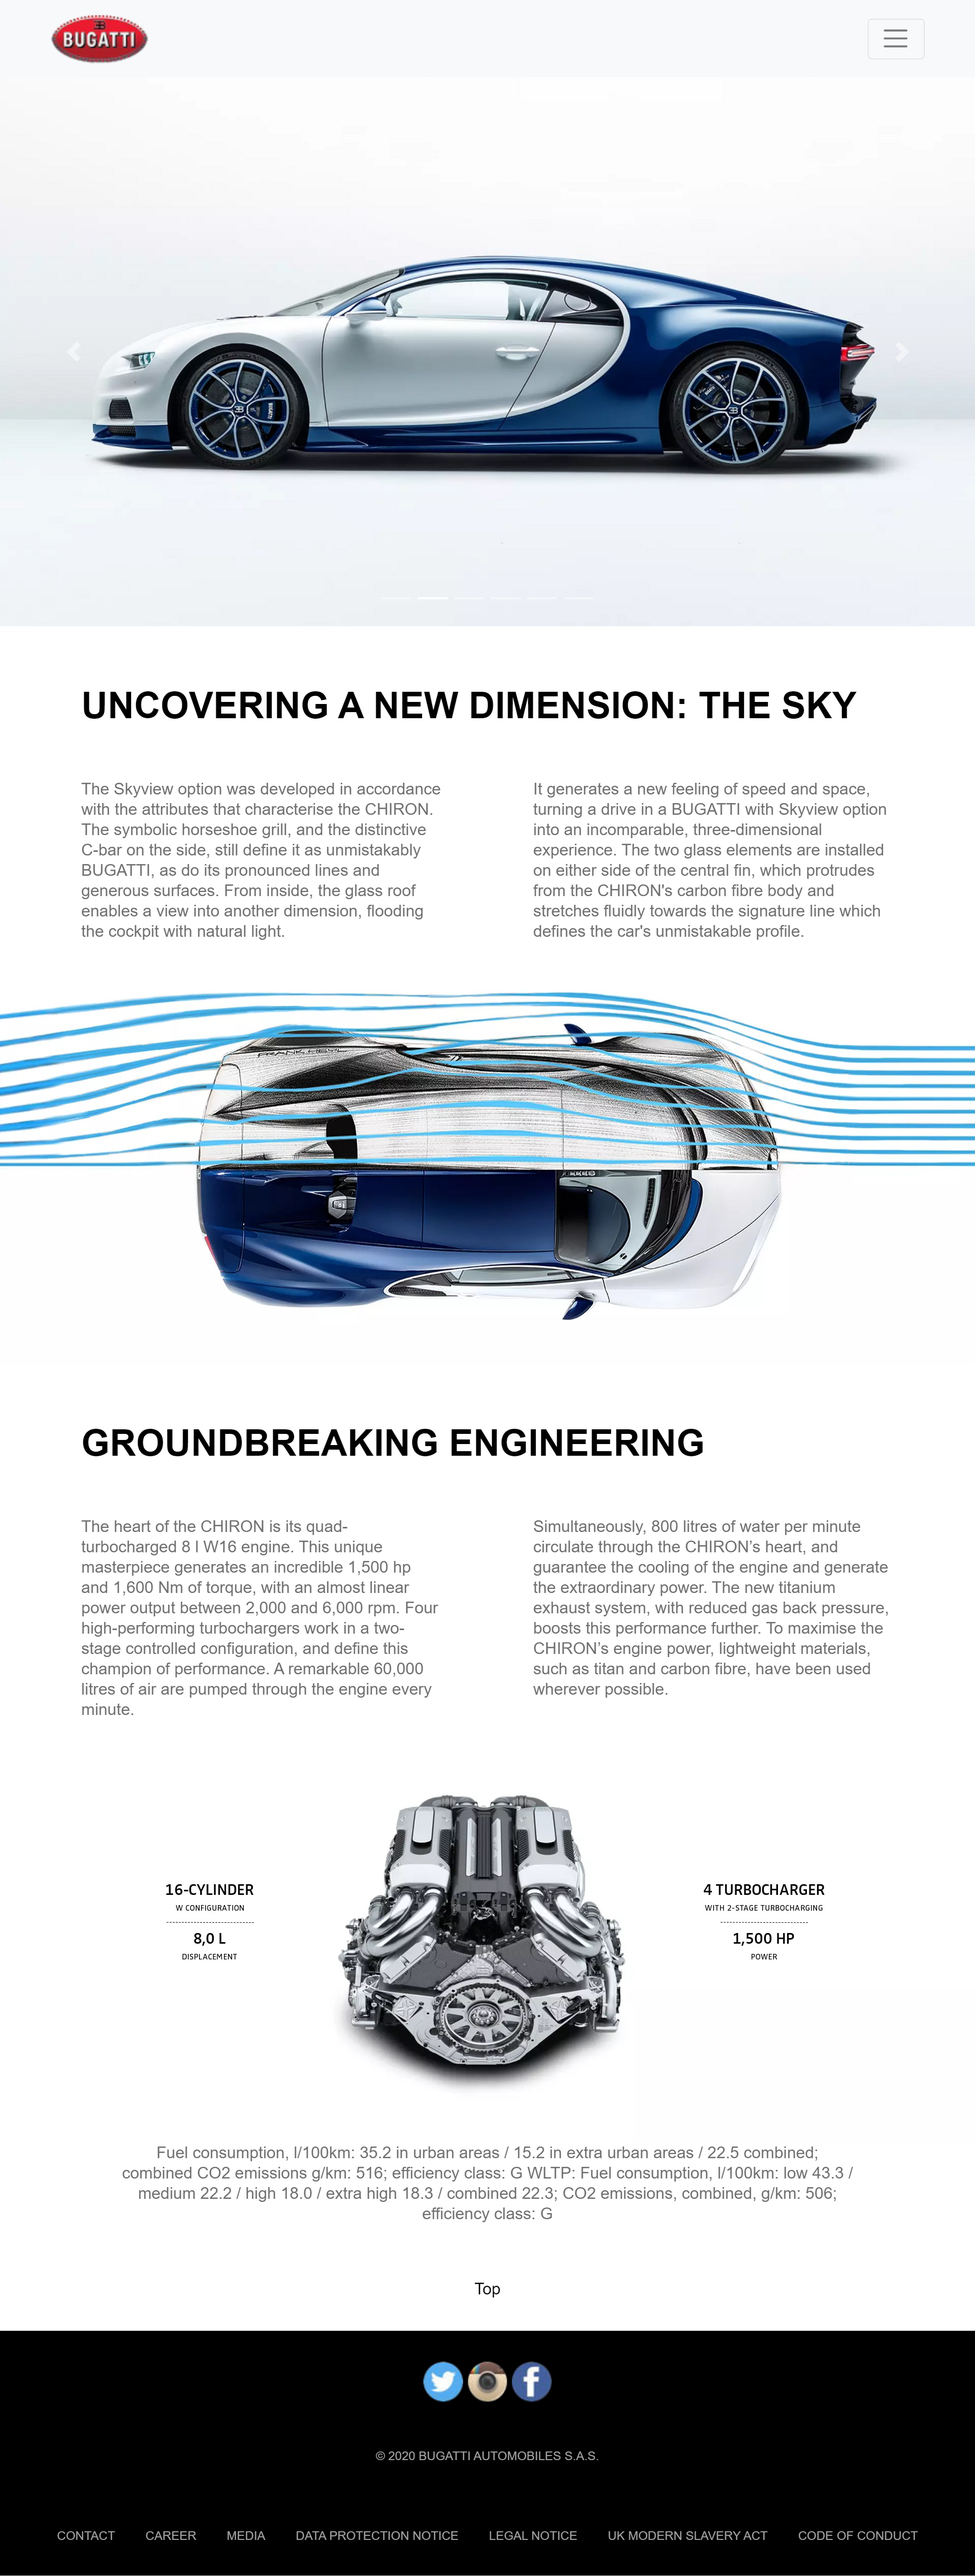
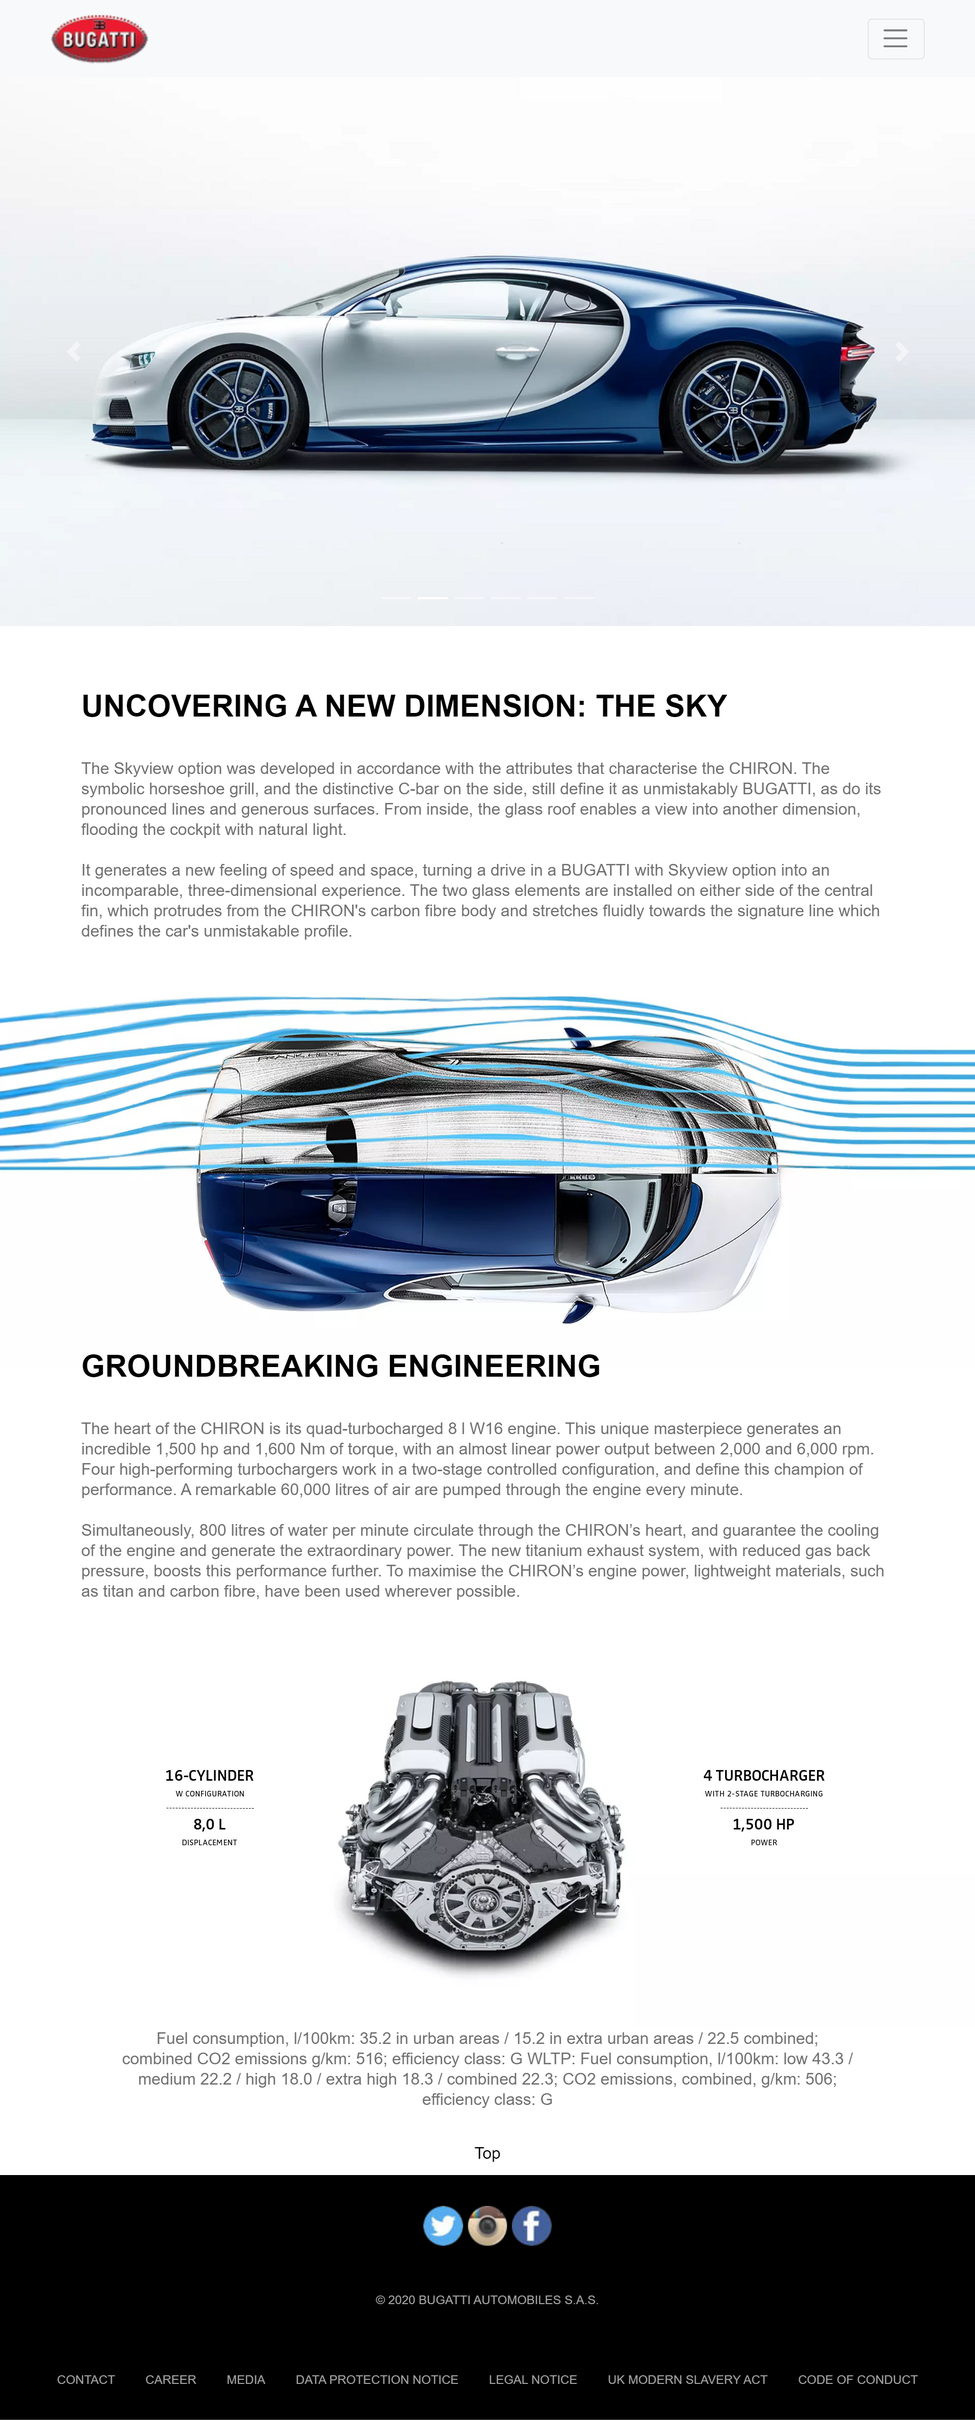
123

diff --git a/index.html b/index.html
@@ -82,14 +82,14 @@
 				<br>
 				<div class="container">
 					<div class="row" >
-						<div class="col-md-6 leftpadding">
+						<div class="col-md-12 col-lg-6 leftpadding">
 							<p>
 								The Skyview option was developed in accordance with the attributes that characterise the CHIRON. The symbolic horseshoe grill,
 								and the distinctive C-bar on the side, still define it as unmistakably BUGATTI, as do its pronounced lines and generous surfaces.
 								From inside, the glass roof enables a view into another dimension, flooding the cockpit with natural light.
 							</p>
 						</div>
-						<div class="col-md-6 rightpadding" >
+						<div class="col-md-12 col-lg-6 rightpadding" >
 							<p>
 								It generates a new feeling of speed and space, 
 								turning a drive in a BUGATTI with Skyview option into an incomparable, 
@@ -123,7 +123,7 @@
 				<br>
 				<div class="container">
 					<div class="row" >
-						<div class="col-md-6 leftpadding">
+						<div class="col-md-12 col-lg-6 leftpadding">
 							<p>
 								The heart of the CHIRON is its quad-turbocharged 8 l W16 engine. 
 								This unique masterpiece generates an incredible 1,500 hp and 1,600 Nm of torque, 
@@ -132,7 +132,7 @@
 								and define this champion of performance. A remarkable 60,000 litres of air are pumped through the engine every minute.
 							</p>
 						</div>
-						<div class="col-md-6 rightpadding" >
+						<div class="col-md-12 col-lg-6 rightpadding" >
 							<p>
 								Simultaneously, 800 litres of water per minute circulate through the CHIRON’s heart, 
 								and guarantee the cooling of the engine and generate the extraordinary power. 
@@ -154,7 +154,7 @@
 					<div class="container">
 						<div class = "row align-items-center">
 
-							<div class="col-md-12">
+							<div class="col-sm-12 col-md-12 text-center">
 								<p>
 									Fuel consumption, l/100km: 35.2 in urban areas / 15.2 in extra urban areas / 22.5 combined; combined CO2 emissions g/km: 516; efficiency class: G
 									WLTP: Fuel consumption, l/100km: low 43.3 / medium 22.2 / high 18.0 / extra high 18.3 / combined 22.3; CO2 emissions, combined, g/km: 506; efficiency class: G
@@ -177,35 +177,37 @@
 			</div>
 		</div>
 
-		<footer>
-			<div class="container" id = "footer">
-				<div class="row">
-					<div class="col-md-12 text-center">
-						<a href = " "><img src="./img/footer_icon_1.png"></a>
-						<a href = " "><img src="./img/footer_icon_2	.png"></a>
-						<a href = " "><img src="./img/footer_icon_3.png"></a>
+		<div class="container">
+			<footer>
+				<div class="container" id = "footer">
+					<div class="row">
+						<div class="col-md-12 text-center">
+							<a href = " "><img src="./img/footer_icon_1.png"></a>
+							<a href = " "><img src="./img/footer_icon_2	.png"></a>
+							<a href = " "><img src="./img/footer_icon_3.png"></a>
+						</div>
 					</div>
 				</div>
-			</div>
-			<div class="container">
-				<div class="col-md-12 text-center" >
-					<p style="font-size: 12px;">
-						© 2020 BUGATTI AUTOMOBILES S.A.S.
-					</p>
+				<div class="container">
+					<div class="col-md-12 text-center" >
+						<p style="font-size: 12px;">
+							© 2020 BUGATTI AUTOMOBILES S.A.S.
+						</p>
+					</div>
 				</div>
-			</div>
-			<div class="container">
-				<div class="col-md-12 text-center" >
-					<ul>
-						<li><a href="#top">CONTACT</a></li>
-						<li><a href="#top">CAREER</a></li>
-						<li><a href="#top">MEDIA</a></li>
-						<li><a href="#top">DATA PROTECTION NOTICE</a></li>
-						<li><a href="#top">LEGAL NOTICE</a></li>
-						<li><a href="#top">UK MODERN SLAVERY ACT</a></li>
-						<li><a href="#top">CODE OF CONDUCT</a></li>
+				<div class="container">
+					<div class="col-md-12 text-center" >
+						<ul>
+							<li><a href="#top">CONTACT</a></li>
+							<li><a href="#top">CAREER</a></li>
+							<li><a href="#top">MEDIA</a></li>
+							<li><a href="#top">DATA PROTECTION NOTICE</a></li>
+							<li><a href="#top">LEGAL NOTICE</a></li>
+							<li><a href="#top">UK MODERN SLAVERY ACT</a></li>
+							<li><a href="#top">CODE OF CONDUCT</a></li>
 
-					</ul>
+						</ul>
+					</div>
 				</div>
 			</div>
 		</footer>

diff --git a/css/style.css b/css/style.css
@@ -45,9 +45,23 @@ p {
 		margin-block-end: 1em;
 		margin-inline-start: 0px;
 		margin-inline-end: 0px;
+		margin-bottom: 20px !important;
 	}
 }	
 
+@media only screen and (min-width: 992px){
+	p {
+		font-size: 16px;
+		font-family: ff-zwo-web,arial,sans-serif!important;
+		line-height: 20px; 
+		color: #707070;
+		display: block;
+		margin-block-start: 1em;
+		margin-block-end: 1em;
+		margin-inline-start: 0px;
+		margin-inline-end: 0px;
+	}
+}	
 .navbar-brand  img{
 	display: flex;
 	height: 50px;
@@ -116,10 +130,15 @@ p {
 .product {
 	height: 150px;
 }
-
 @media only screen and (min-width: 768px){
 	.product {
-		height: 400px;
+		height: 320px;
+	}
+}	
+
+@media only screen and (min-width: 992px){
+	.product {
+		height: 426.6px;
 	}
 }	
 
@@ -268,6 +287,12 @@ header h2 {
 
 @media only screen and (min-width: 768px){
 	header h2 {
+		font-size: 30px;
+		line-height: 56px;
+	}
+}
+@media only screen and (min-width: 992px){
+	header h2 {
 		font-size: 36px;
 		line-height: 56px;
 		padding-bottom: 20px;
@@ -282,6 +307,16 @@ header h2 {
 	}
 }
 
+.col-md-6{
+	padding: 0px ;
+	margin: 0px !important;
+}
+.col-12{
+	padding: 0!important;
+}
+.col-md-12{
+	padding: 0!important;
+}
 .leftpadding{
 	padding: 0px 0px 0px 0px !important;
 }
@@ -289,27 +324,17 @@ header h2 {
 	padding: 0px 0px 0px 0px !important;
 }
 
-@media only screen and (min-width: 768px){
+@media only screen and (min-width: 992px){
 	.leftpadding {
 		padding: 0px 45px 0px 0px !important;
 	}
 }
 
-@media only screen and (min-width: 1280px){
-	.leftpadding {
-		padding: 0px 60px 0px 0px !important;
-	}
-}
 
-@media only screen and (min-width: 768px){
+
+@media only screen and (min-width: 992px){
 	.rightpadding {
 		padding: 0px 0px 0px 45px !important;
-	}
-}
-
-@media only screen and (min-width: 1280px){
-	.rightpadding {
-		padding: 0px 0px 0px 60px !important;
 	}
 }
 
@@ -326,16 +351,7 @@ h2{
 	padding: 0px!important;
 	margin: 0 0 0 0!important;
 }
-.col-md-6{
-	padding: 0px ;
-	margin: 0px !important;
-}
-.col-12{
-	padding: 0!important;
-}
-.col-md-12{
-	padding: 0!important;
-}
+
 .picture-flame{
 
 	padding: 0;
@@ -361,7 +377,19 @@ h2{
 }
 @media only screen and (min-width: 768px){
 	.engine{
-		height: 530px;
+		height: 500px;
+		text-align: center;
+
+		max-width:100%;
+	}
+	.engine p{
+		padding: 0px 120px 0px 120px !important;
+	}
+}
+
+@media only screen and (min-width: 992px){
+	.engine{
+		height: 500px;
 		text-align: center;
 
 		max-width:100%;
@@ -372,6 +400,18 @@ h2{
 }
 
 @media only screen and (min-width: 1280px){
+	.engine{
+		height: 700px;
+		text-align: center;
+		
+		max-width:100%;
+	}
+	.engine p{
+		padding: 0px 260px 0px 260px !important;
+	}
+}
+
+@media only screen and (min-width: 1560px){
 	.engine{
 		height: 800px;
 		text-align: center;
@@ -385,6 +425,7 @@ h2{
 
 .TopButton{
 	font-size: 8px;
+	padding-top: 1%;
 	padding-bottom: 1%;
 }
 
